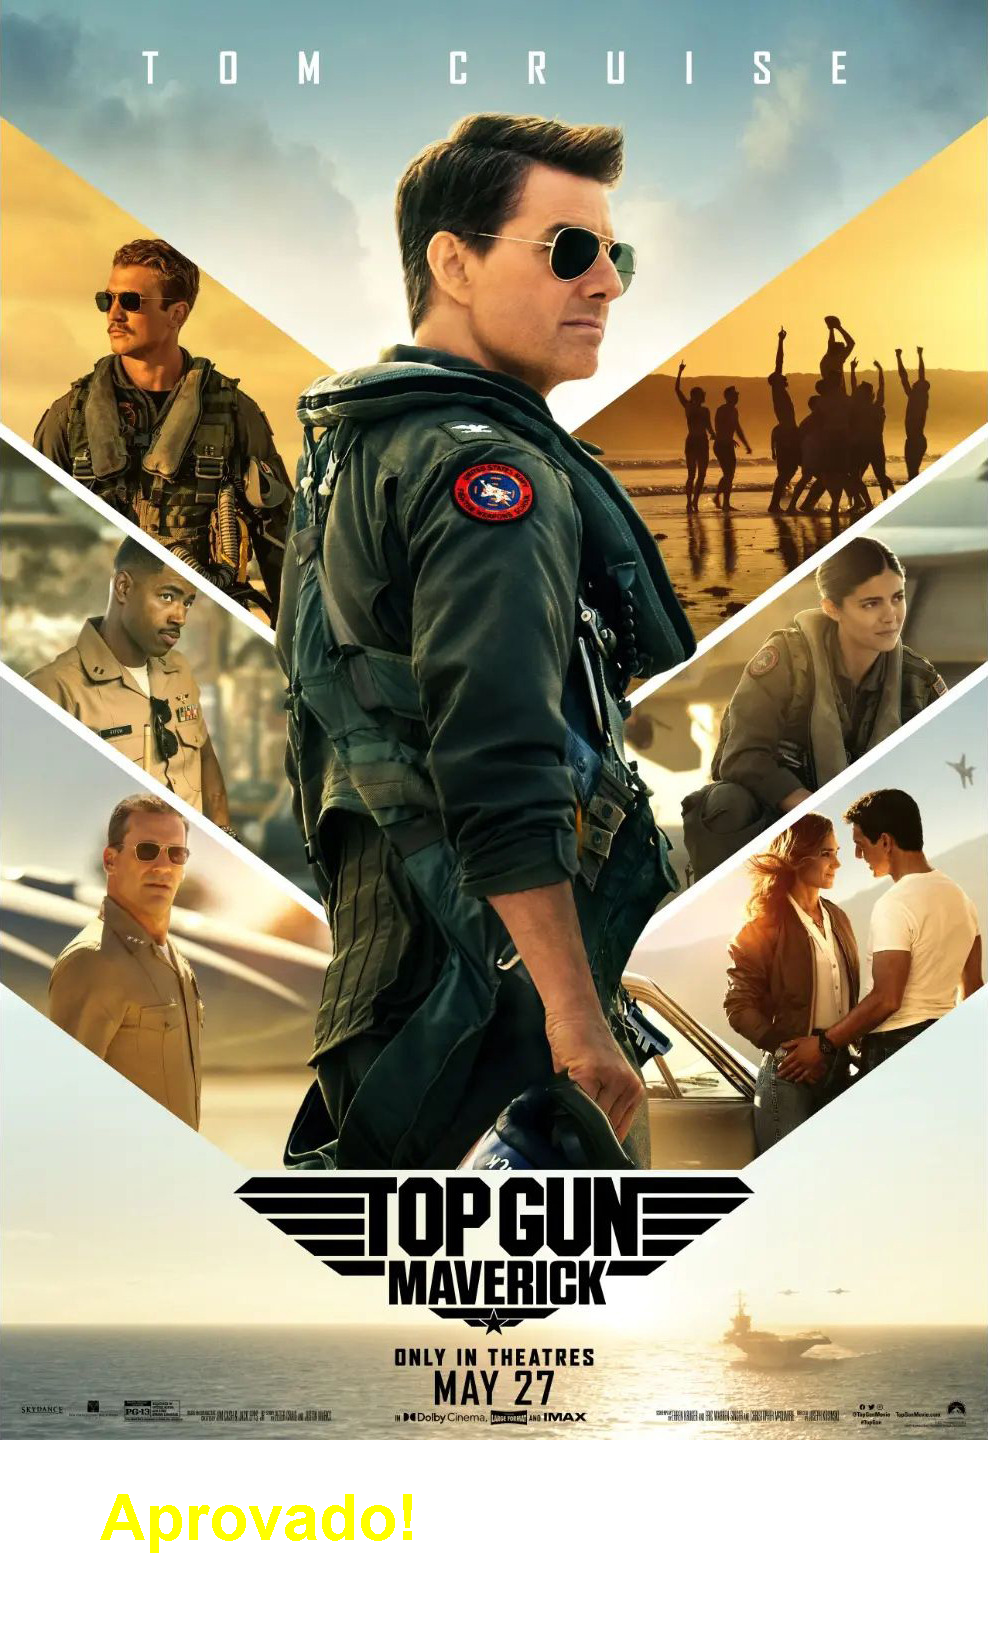
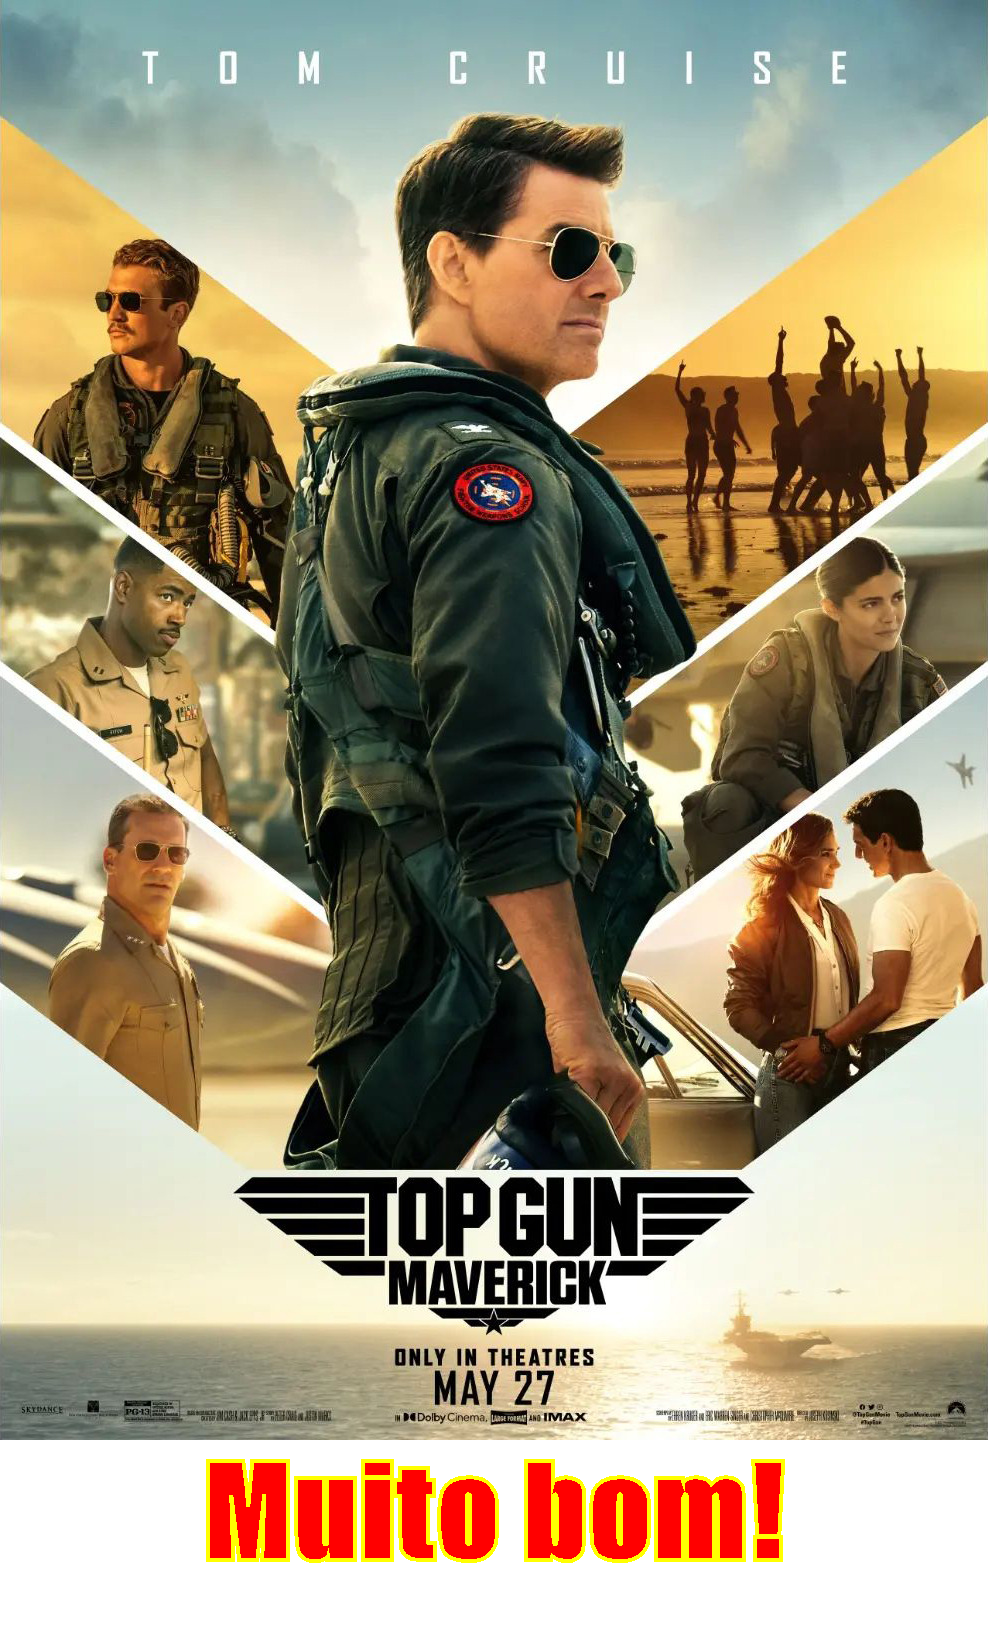
fix:classification

Changed region(s): [[0.0911, 0.8707, 0.7895, 0.964]]

diff --git a/src/GeradorDeImagens.java b/src/GeradorDeImagens.java
@@ -1,14 +1,22 @@
 import java.awt.Graphics2D;
+import java.awt.Shape;
+import java.awt.font.FontRenderContext;
+import java.awt.font.TextLayout;
+import java.awt.geom.AffineTransform;
+import java.awt.geom.Rectangle2D;
 import java.awt.image.BufferedImage;
 import javax.imageio.ImageIO;
 import java.io.File;
 import java.io.InputStream;
 import java.awt.Color;
 import java.awt.Font;
+import java.awt.FontMetrics;
+import java.awt.font.TextLayout;
+import java.awt.BasicStroke;
 
 public class GeradorDeImagens {
 
-    public void cria(InputStream inputStream, String nomeArquivo) throws Exception {
+    public void cria(InputStream inputStream, String nomeArquivo, String textoDaImagem) throws Exception {
 
         // InputStream inputStream = new URL("https://raw.githubusercontent.com/alura-cursos/imersao-java-2-api/main/MostPopularTVs_2.jpg").openStream();
 
@@ -26,12 +34,33 @@ public class GeradorDeImagens {
         graphics.drawImage(imagenOriginal, 0, 0, null);
 
         // Configurando a Font
-        var fonte = new Font(Font.SANS_SERIF, Font.BOLD, 64);
-        graphics.setColor(Color.YELLOW);
+        var fonte = new Font("Impact", Font.BOLD, 120);
+        graphics.setColor(Color.RED);
         graphics.setFont(fonte);
 
         // Escrever um texto na nossa imagem
-        graphics.drawString("Aprovado!", 100, newAltura -100);
+        FontMetrics fontMetrics = graphics.getFontMetrics();
+        Rectangle2D textWidth = fontMetrics.getStringBounds(textoDaImagem, graphics);
+        int widthText = (int) textWidth.getWidth();
+        int posicaoTextoX = (largura - widthText) / 2;
+        int posicaoTextoY =  newAltura -80;
+        graphics.drawString(textoDaImagem, posicaoTextoX, posicaoTextoY);
+
+        // Fazendo o contorno em volta do texto 
+        FontRenderContext fontRenderContext = graphics.getFontRenderContext();
+        var textLayout = new TextLayout(textoDaImagem, fonte, fontRenderContext);
+        Shape outline = textLayout.getOutline(null);
+        AffineTransform transform = graphics.getTransform();
+        transform.translate(posicaoTextoX, posicaoTextoY);
+        graphics.setTransform(transform);
+
+        var outlineStroke = new BasicStroke(largura * 0.004f);
+        graphics.setStroke(outlineStroke);
+
+        graphics.setColor(Color.YELLOW);
+        graphics.draw(outline);
+        graphics.setClip(outline);
+        
 
         // Escrevendo a nova imagem em um arquivo
     

diff --git a/src/App.java b/src/App.java
@@ -31,14 +31,21 @@ public class App {
 
             String urlImagem = filme.get("image");
             String tituloFilme = filme.get("title");
-            
+            double classificacao = Double.parseDouble(filme.get("imDbRating"));
+
+            String textoFigurinha;
+            if(classificacao >= 8.0){
+                textoFigurinha = "Muito bom!";
+            }else{
+                textoFigurinha = "Meia Bomba";
+            }
             var diretorio = new File("figurinhas/");
             diretorio.mkdir();
 
             InputStream inputStream = new URL(urlImagem).openStream();
             String nomeArquivo = "figurinhas/" + tituloFilme.replace(":","-") + ".png";
             
-            geradora.cria(inputStream, nomeArquivo);
+            geradora.cria(inputStream, nomeArquivo, textoFigurinha);
             
             System.out.println(tituloFilme);
             System.out.println();
